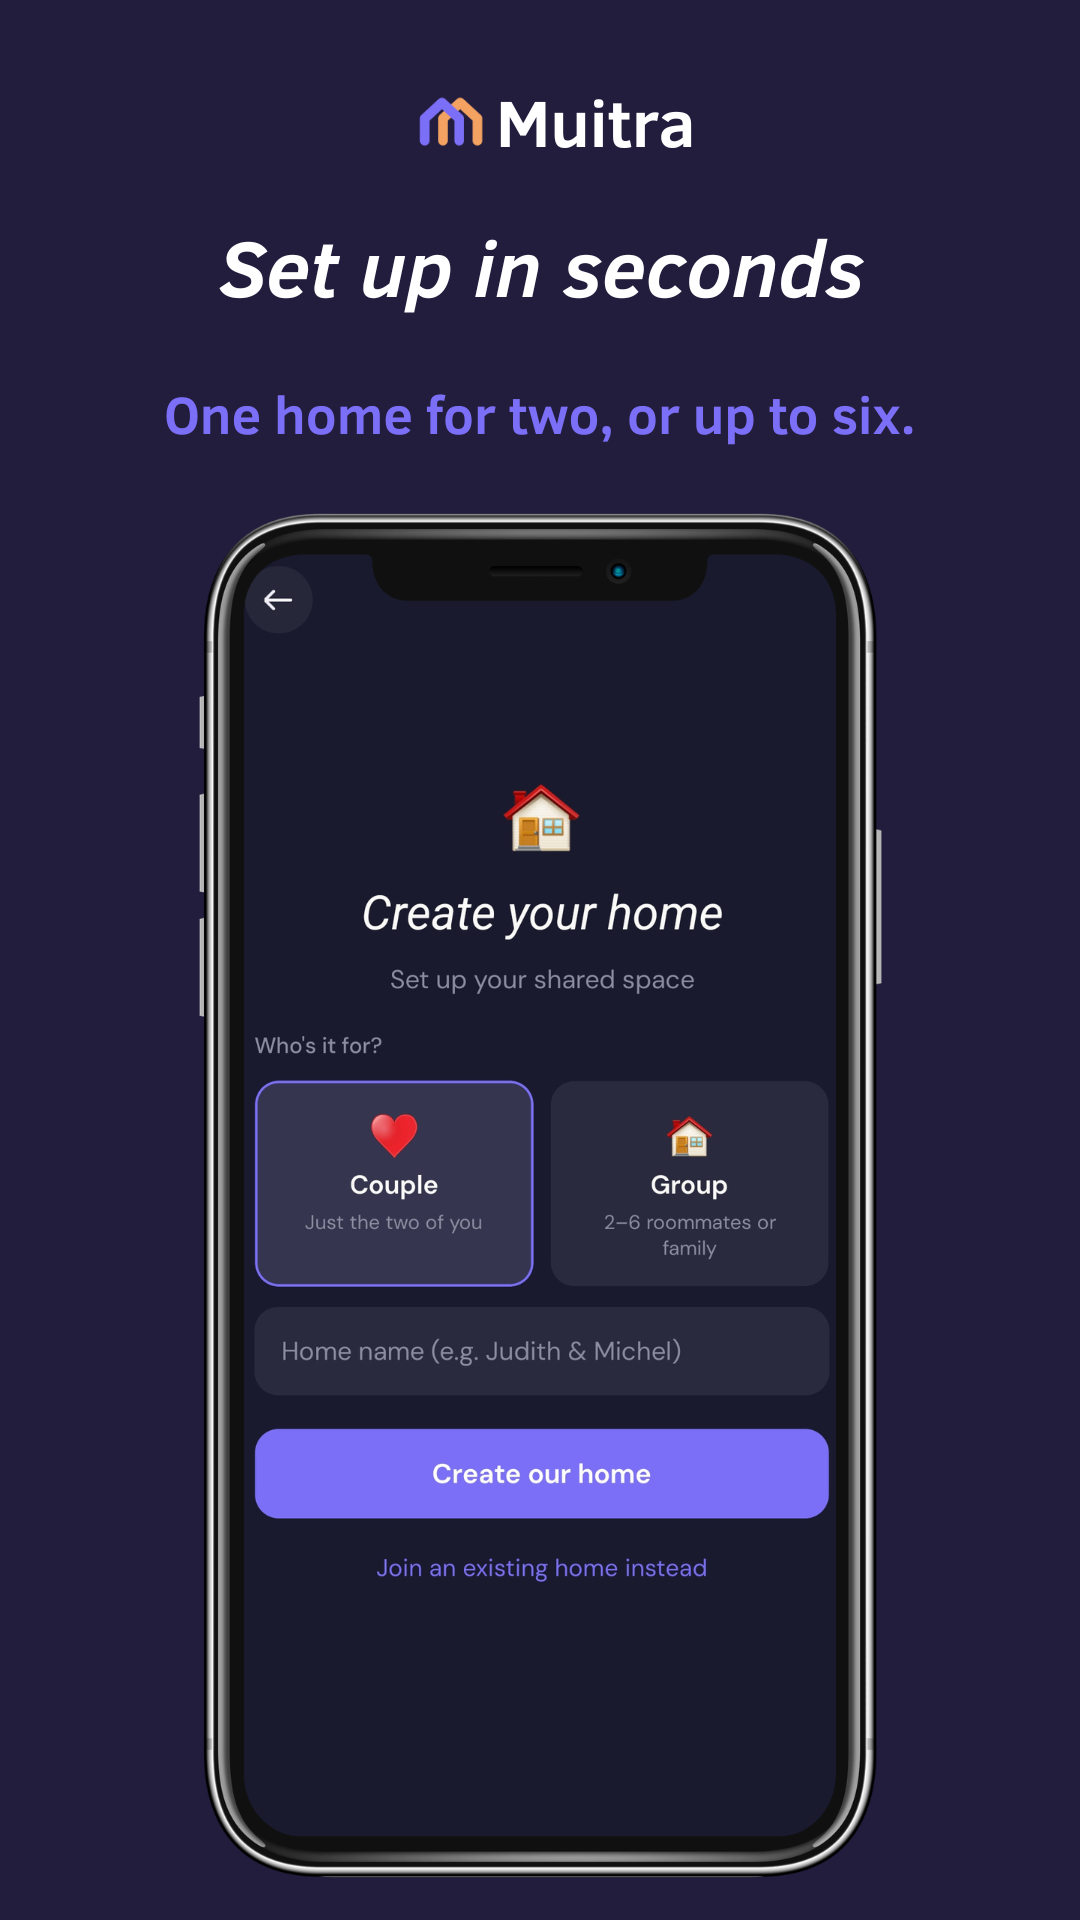
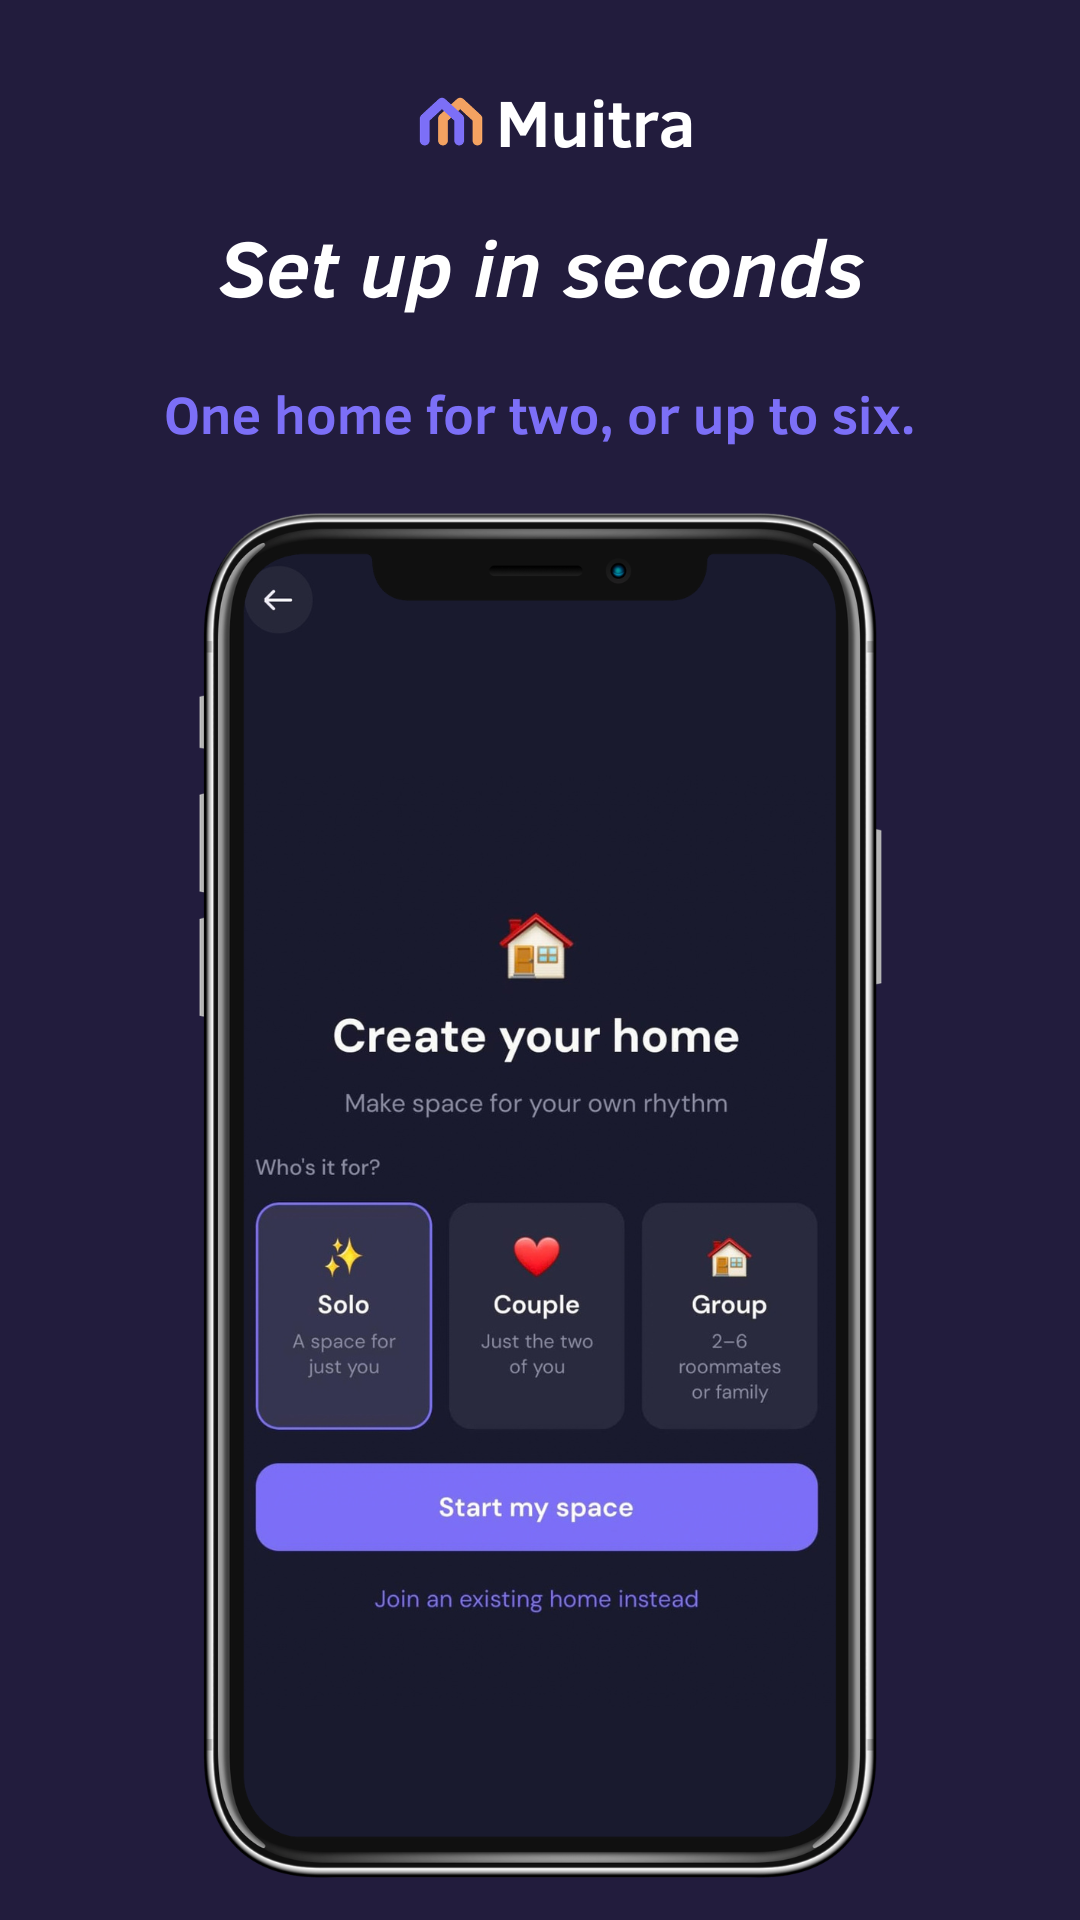
Show solo home in first website screenshot

Changed region(s): [[0.2139, 0.4062, 0.7944, 0.8438], [0.3056, 0.9688, 0.7333, 1.0], [0.2139, 0.9375, 0.2444, 0.9688]]

diff --git a/app.js b/app.js
@@ -48,7 +48,7 @@ const I18N = {
     "footer.privacy": "Privacy policy",
     "footer.contact": "Contact",
     "alt": [
-      "Set up in seconds — create a home for a couple or a group of up to six.",
+      "Set up in seconds — create a solo, couple, or group home.",
       "The Today screen showing whose turn each chore is, rotating automatically.",
       "Add a routine in a tap — set how often it repeats and who starts.",
       "The week view showing who does what, and when.",
@@ -104,7 +104,7 @@ const I18N = {
     "footer.privacy": "Confidentialité",
     "footer.contact": "Contact",
     "alt": [
-      "Configuration en quelques secondes — créez un foyer pour un couple ou un groupe de six.",
+      "Configuration en quelques secondes — créez un foyer solo, en couple ou en groupe.",
       "L'écran Aujourd'hui montre à qui le tour de chaque tâche, qui tourne automatiquement.",
       "Ajoutez une routine en un geste — réglez la fréquence et qui commence.",
       "La vue de la semaine : qui fait quoi, et quand.",
@@ -160,7 +160,7 @@ const I18N = {
     "footer.privacy": "Privacidad",
     "footer.contact": "Contacto",
     "alt": [
-      "Configúralo en segundos — crea un hogar para una pareja o un grupo de hasta seis.",
+      "Configúralo en segundos — crea un hogar solo, en pareja o en grupo.",
       "La pantalla de Hoy muestra de quién es el turno de cada tarea, rotando solo.",
       "Añade una rutina con un toque — elige cada cuánto se repite y quién empieza.",
       "La vista de la semana: quién hace qué, y cuándo.",
